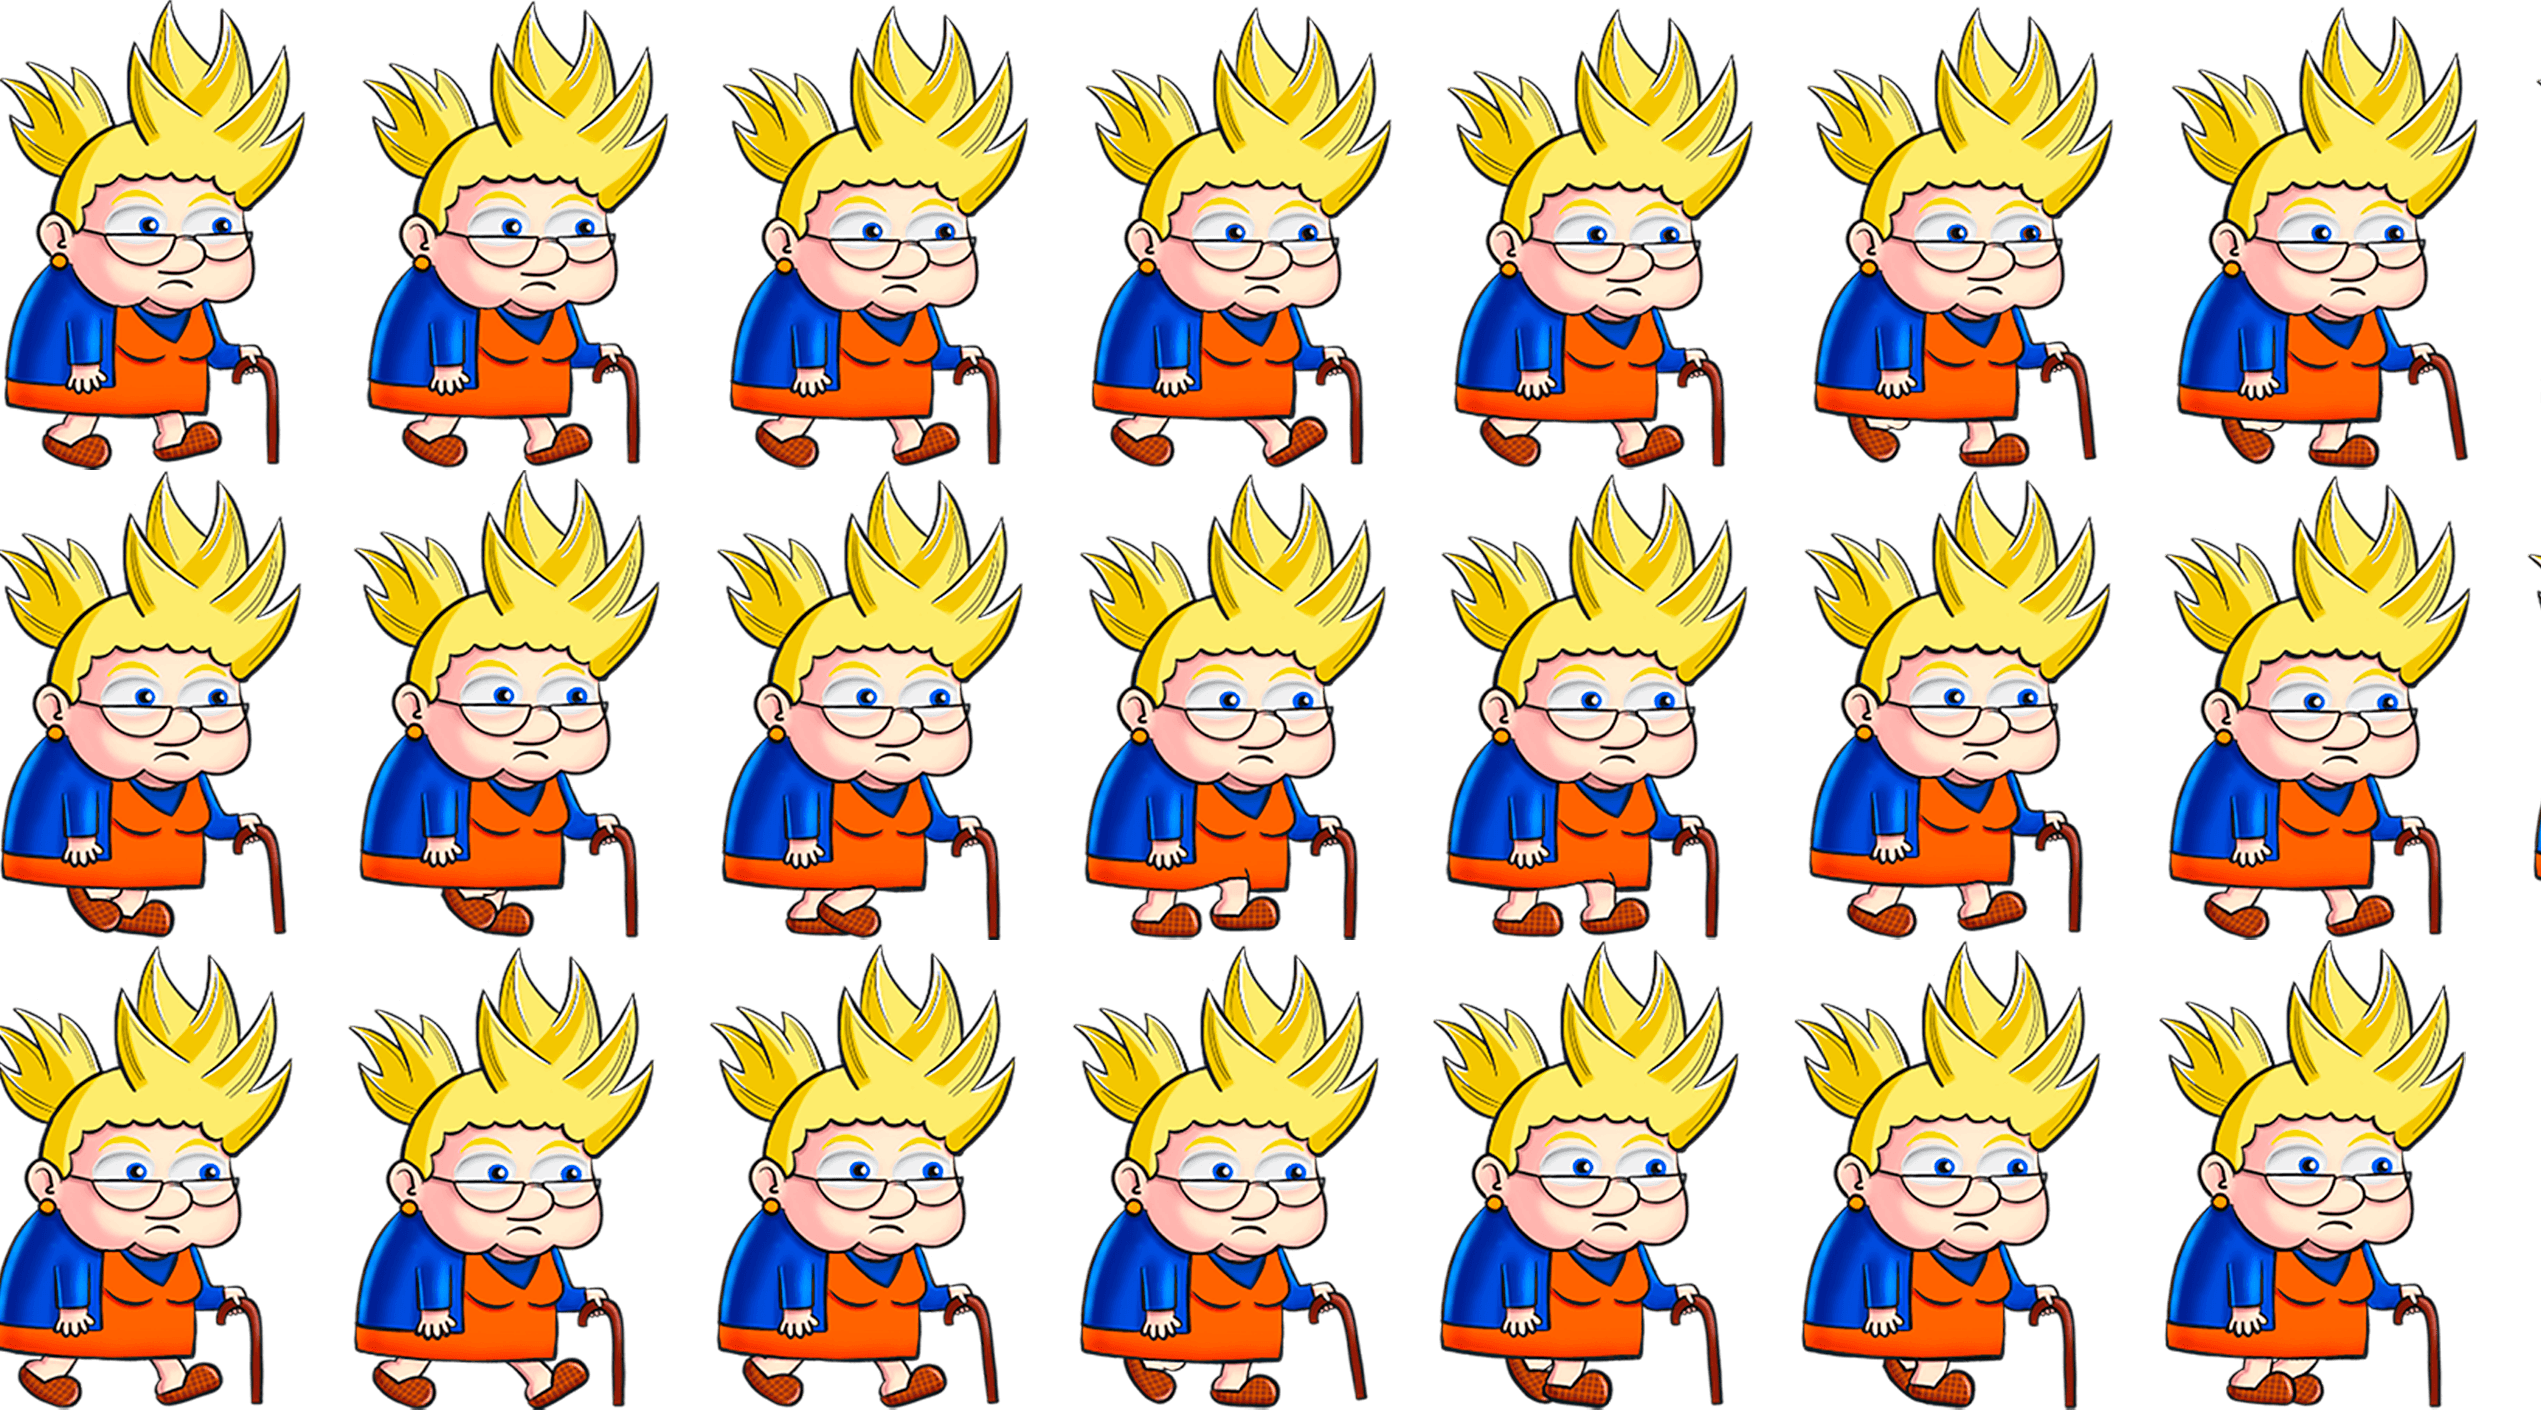
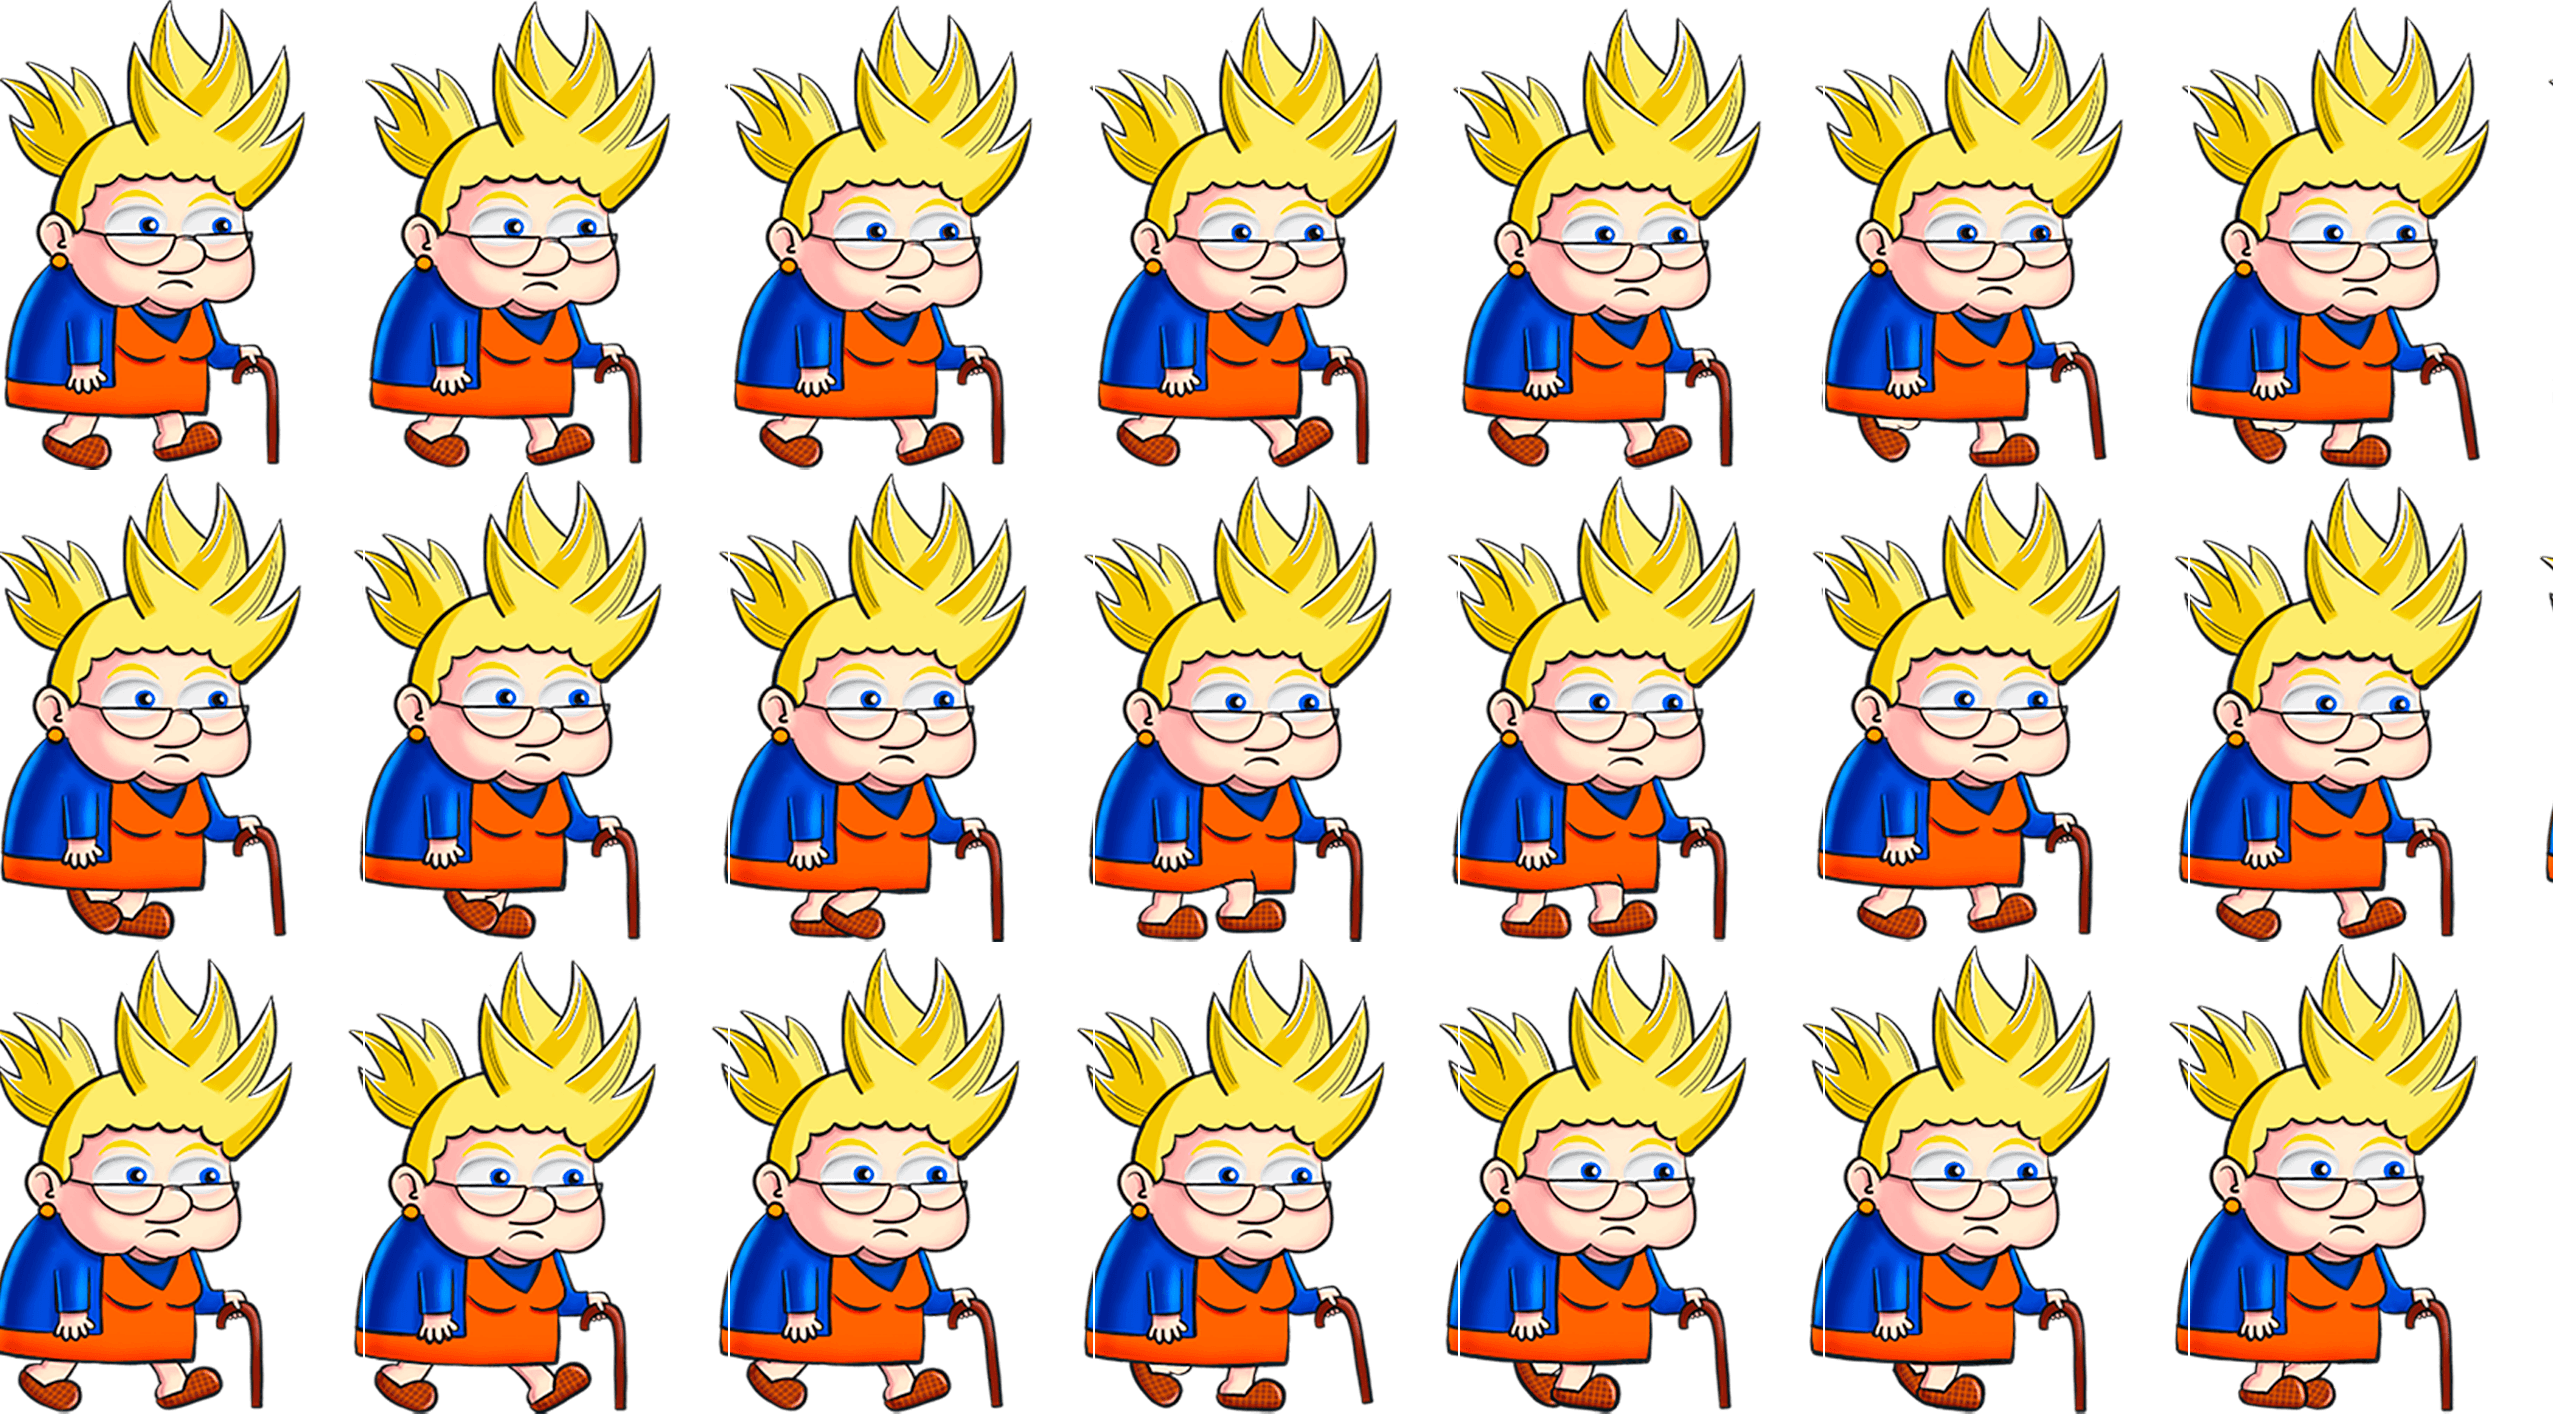
Fix: añadir spacing de 2px al spritesheet de Wukong andando
Evita texture bleeding entre frames adyacentes en la versión
reorganizada en filas. CargaScene ahora soporta el campo spacing.

diff --git a/js/niveles/barcelona.js b/js/niveles/barcelona.js
@@ -201,7 +201,7 @@ export const BARCELONA = {
             { key: 'abuelaQuieta',       ruta: 'assets/abuelaIdle.png',              fw: 363,   fh: 378 },
             { key: 'abuelaMuerte',       ruta: 'assets/abuelaMuerte.png',            fw: 363,   fh: 378 },
             { key: 'abuelaTWukong',      ruta: 'assets/abuelaTWukong.png',           fw: 452,   fh: 610 },
-            { key: 'abuelaMov1Wukong',   ruta: 'assets/abuelaAndarWukongPrueba.png', fw: 363,   fh: 470 },
+            { key: 'abuelaMov1Wukong',   ruta: 'assets/abuelaAndarWukongPrueba.png', fw: 363,   fh: 470, spacing: 2 },
             { key: 'abuelaQuietaWukong', ruta: 'assets/abuelaIdleWukong.png',        fw: 450,   fh: 470 },
             { key: 'abuelaMov2Wukong',   ruta: 'assets/abuelaSaltoWukong.png',       fw: 450,   fh: 470 },
             { key: 'paracetamol',        ruta: 'assets/paracetamol.png',             fw: 275,   fh: 260 },

diff --git a/js/scenes/CargaScene.js b/js/scenes/CargaScene.js
@@ -49,8 +49,8 @@ class CargaScene extends Phaser.Scene {
         assets.imagenes.forEach(({ key, ruta }) => {
             if (!this.textures.exists(key)) this.load.image(key, ruta);
         });
-        assets.spritesheets.forEach(({ key, ruta, fw, fh }) => {
-            if (!this.textures.exists(key)) this.load.spritesheet(key, ruta, { frameWidth: fw, frameHeight: fh });
+        assets.spritesheets.forEach(({ key, ruta, fw, fh, spacing }) => {
+            if (!this.textures.exists(key)) this.load.spritesheet(key, ruta, { frameWidth: fw, frameHeight: fh, spacing: spacing || 0 });
         });
         assets.audios.forEach(({ key, ruta }) => {
             if (!this.cache.audio.exists(key)) this.load.audio(key, ruta);
